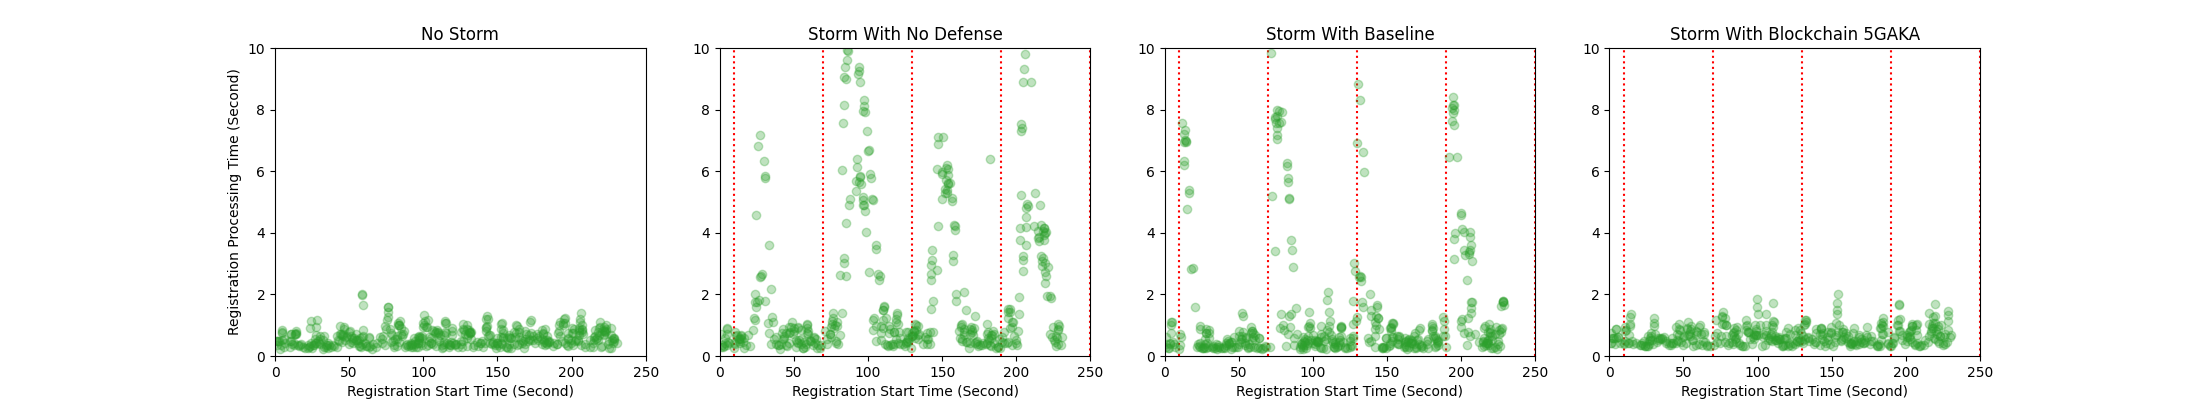
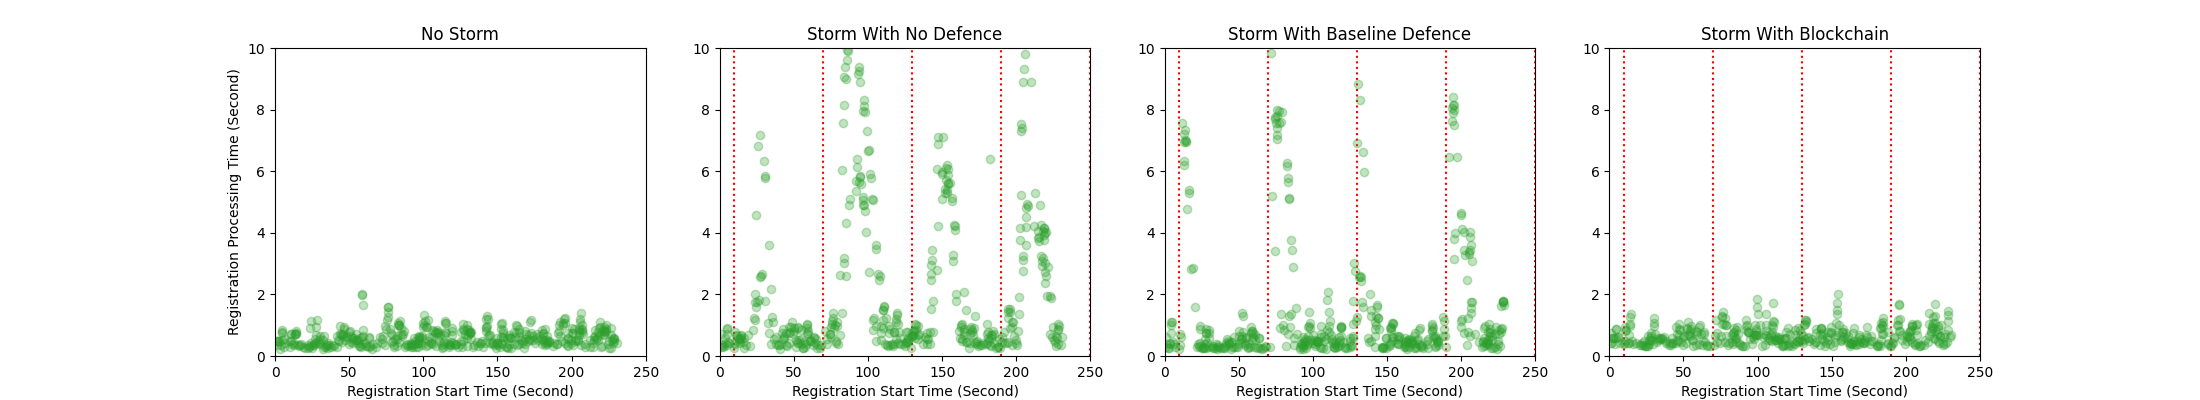
Graph corrections

Changed region(s): [[0.5564, 0.06, 0.68, 0.12], [0.7418, 0.06, 0.8655, 0.12], [0.3709, 0.06, 0.4636, 0.12]]

diff --git a/src/post_analysis.py b/src/post_analysis.py
@@ -131,11 +131,20 @@ def get_quartiles(results, output, type, deployments=2, cumulative=True, oneGrap
         myBins = 500 if cumulative else 60
         if oneGraph:
             plt.figure(figsize=(8,4))
-
+            # plt.figure()
             tab_colors = plt.get_cmap('tab10').colors
+            marker_types = ['x', '^', 's', 'd']
             checkpoints = []
             for scenario in range(len(dataKeys)):
-                n,bins,patches = plt.hist(dataValues[scenario], histtype=histtype, bins=myBins, range=(0,10), cumulative=cumulative, label=dataKeys[scenario], density=True, color=tab_colors[scenario])
+                n,bins,patches = plt.hist(dataValues[scenario], histtype=histtype, bins=myBins, range=(0,10), cumulative=cumulative, density=True, color=tab_colors[scenario])
+
+                # Plotting markers for the host
+                n_with_step = []
+                bins_with_step = []
+                for i in range(3*(scenario+2),len(n),27):
+                    n_with_step.append(n[i])
+                    bins_with_step.append(bins[i])
+                plt.scatter(bins_with_step, n_with_step, color=tab_colors[scenario], marker=marker_types[scenario], s=35, label=dataKeys[scenario])
                 
                 subList1 = [val for val in dataValues[scenario] if val<1]
                 checkpt = float(len(subList1))/len(dataValues[scenario])
@@ -207,7 +216,7 @@ def get_data(filename, offset=0):
     return x_values, y_values
 
 
-def generate_graphs(paths, y_max, output, deployments=2, withAtk=False):
+def generate_graphs(paths, y_max, output, deployments=2, withAtk=False, oneGraph=True):
     graphs = {}
     for filename in paths:
         one_filename = filename
@@ -329,6 +338,31 @@ def generate_graphs(paths, y_max, output, deployments=2, withAtk=False):
 
     # Save the figure
     plt.savefig(f'{output}analysis_rt.png')
+    plt.close()
+
+    if not oneGraph:
+        nameList = []
+        plt.figure()
+        for name, values in graphs.items():
+            nameList.append(name)
+            x_storm, y_storm = values[0]
+            x_benign, y_benign = values[1]
+
+            
+            if not 'No Storm' in name:
+                for t_wave in x_waves:
+                    plt.axvline(x=t_wave, color='red', label='Storms', linestyle='dotted')
+
+            my_title = f'{name.split("-")[0]}'
+            plt.plot(x_benign, y_benign, 'o', label=f'Benign registrations', color='tab:green', alpha=0.3)
+            plt.xlabel('Registration Start Time (Second)',)
+            plt.ylabel('Registration Processing Time (Second)')
+            plt.xlim(0, end-origin)  # Adjust the range as needed
+            plt.ylim(0, y_max)  # Adjust the range as needed
+
+            # Save the figure
+            plt.savefig(f'{output}{my_title}.png')
+            plt.close()
 
     print(f'Charts generated.')
 
@@ -340,19 +374,17 @@ if __name__ == "__main__":
 
     results = {
         f'{prefix}Simulation-1688920339': 'No Storm',
-        f'{prefix}Simulation-1688871852': 'Storm With No Defense',
-        f'{prefix}Simulation-1688864626': 'Storm With Baseline',
-        f'{prefix}Simulation-1688916026': 'Storm With Blockchain 5GAKA'            
+        f'{prefix}Simulation-1688871852': 'Storm With No Defence',
+        f'{prefix}Simulation-1688864626': 'Storm With Baseline Defence',
+        f'{prefix}Simulation-1688916026': 'Storm With Blockchain-assisted 5GAKA'            
     }
 
 
     max_time = 10
     
 
-    generate_graphs(results, max_time, output, deployments=2)
+    generate_graphs(results, max_time, output, deployments=2, oneGraph=False)
 
-
-    get_quartiles(results, output, 'bars', cumulative=False, oneGraph=False)
-
-
+    get_quartiles(results, output, 'bars', cumulative=True, oneGraph=True)
+    
     get_quartiles(results, output, 'density', cumulative=True, oneGraph=True)
